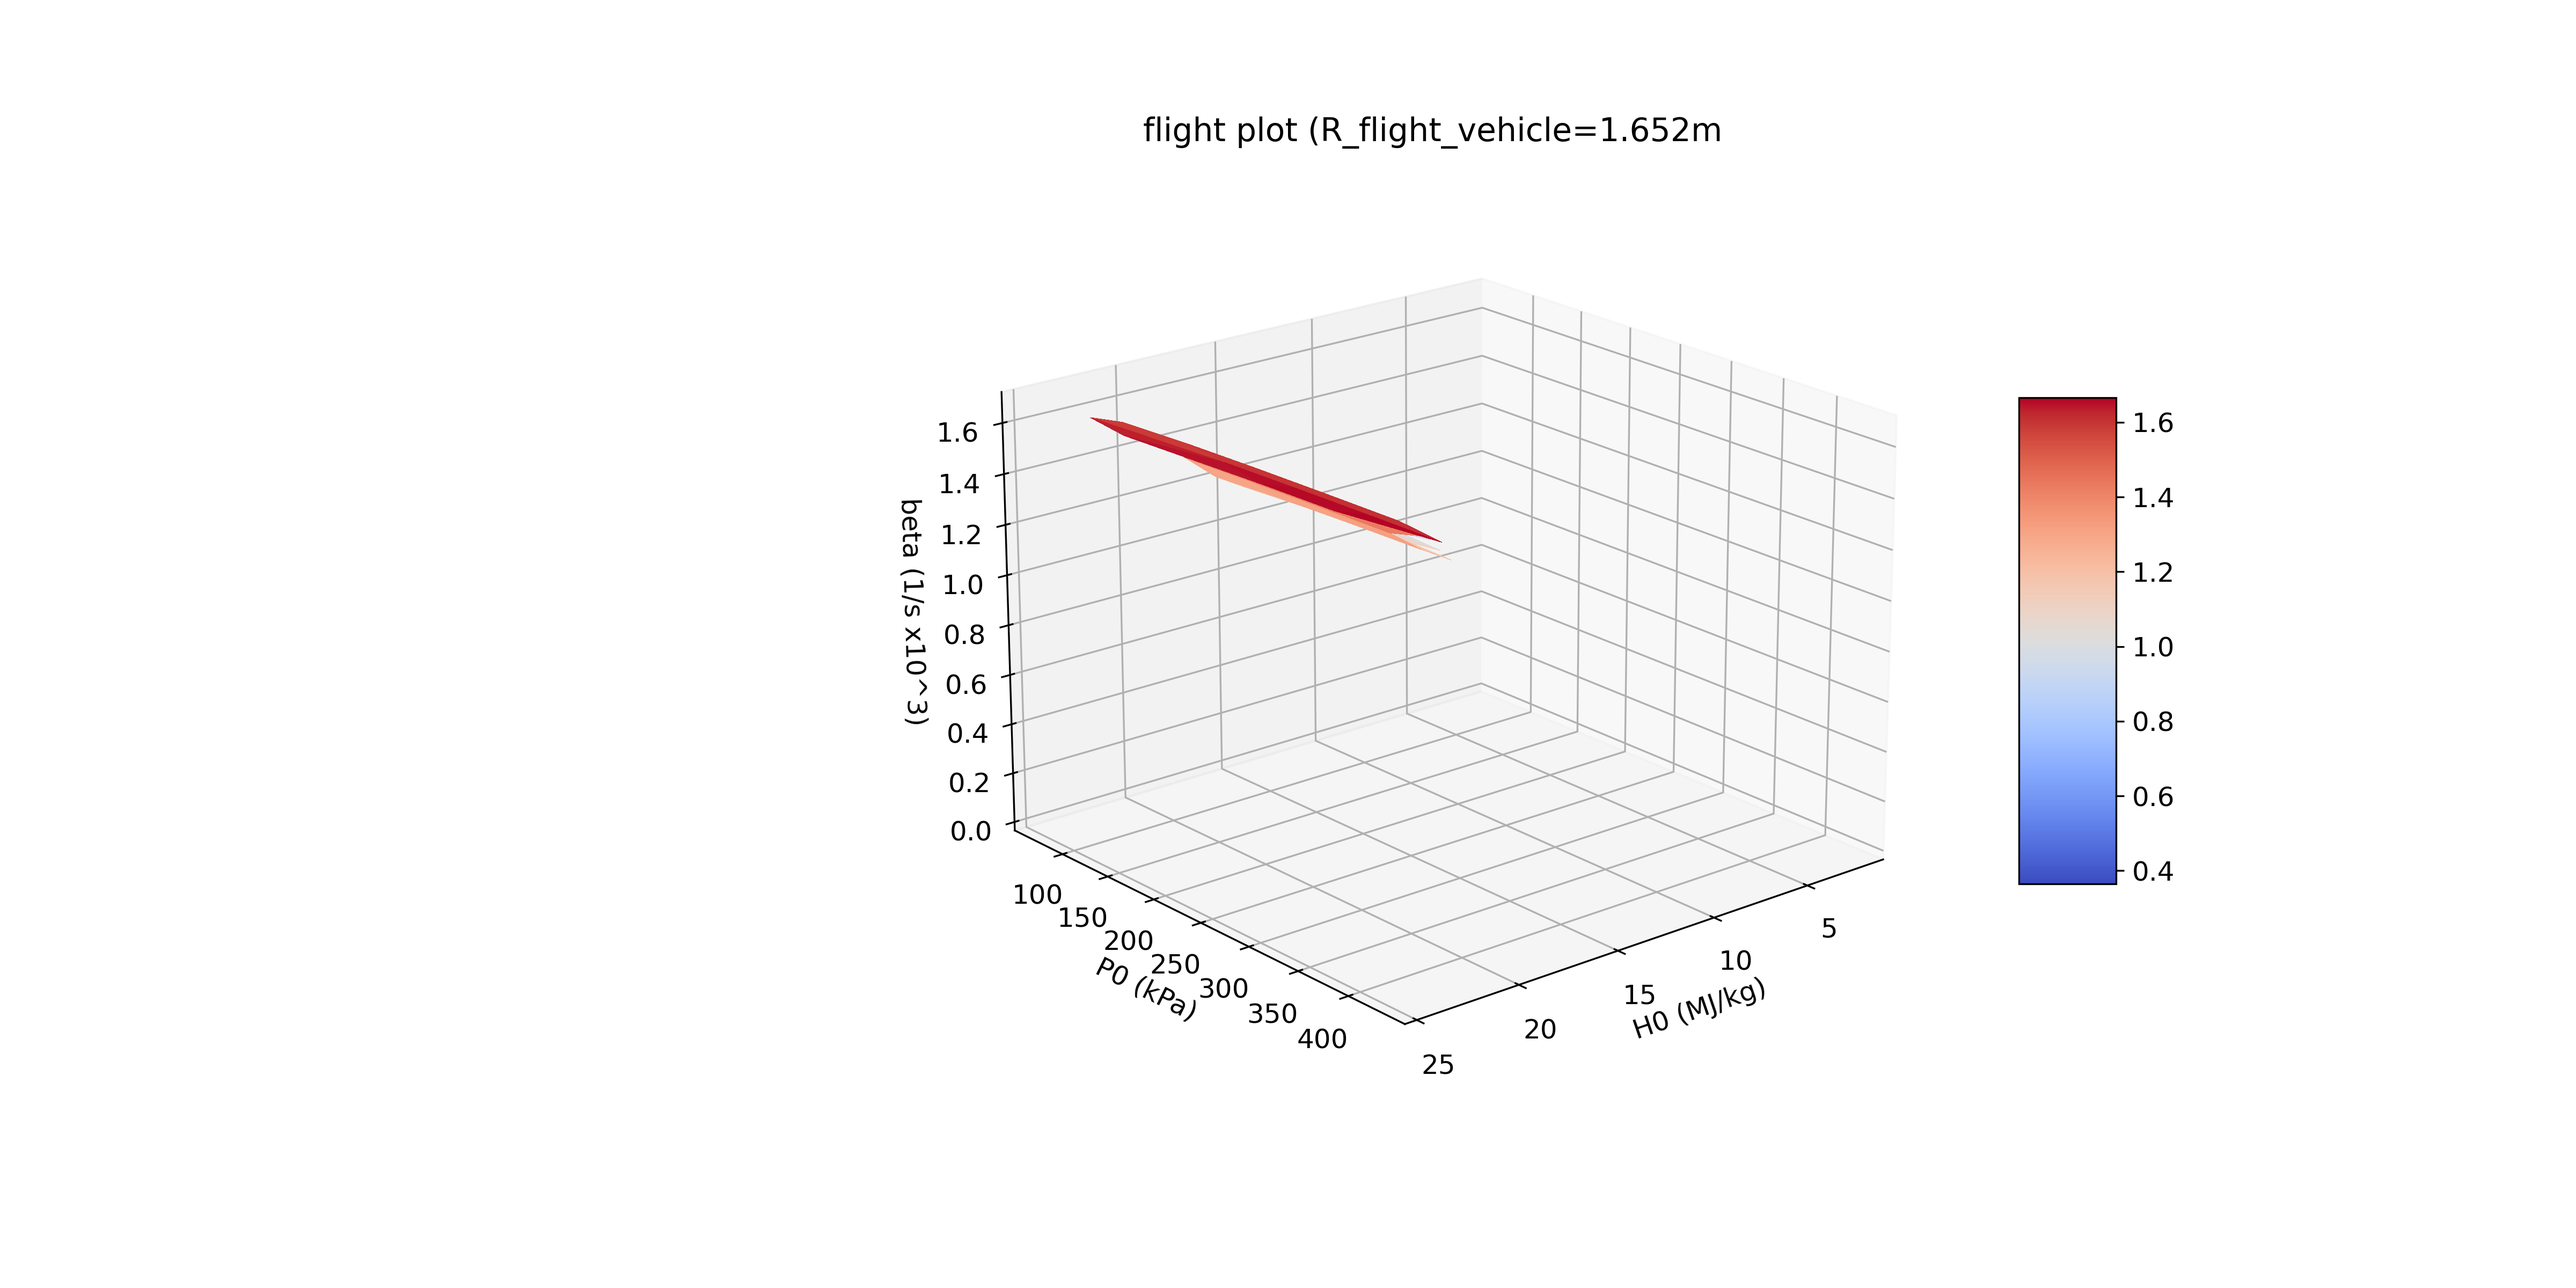
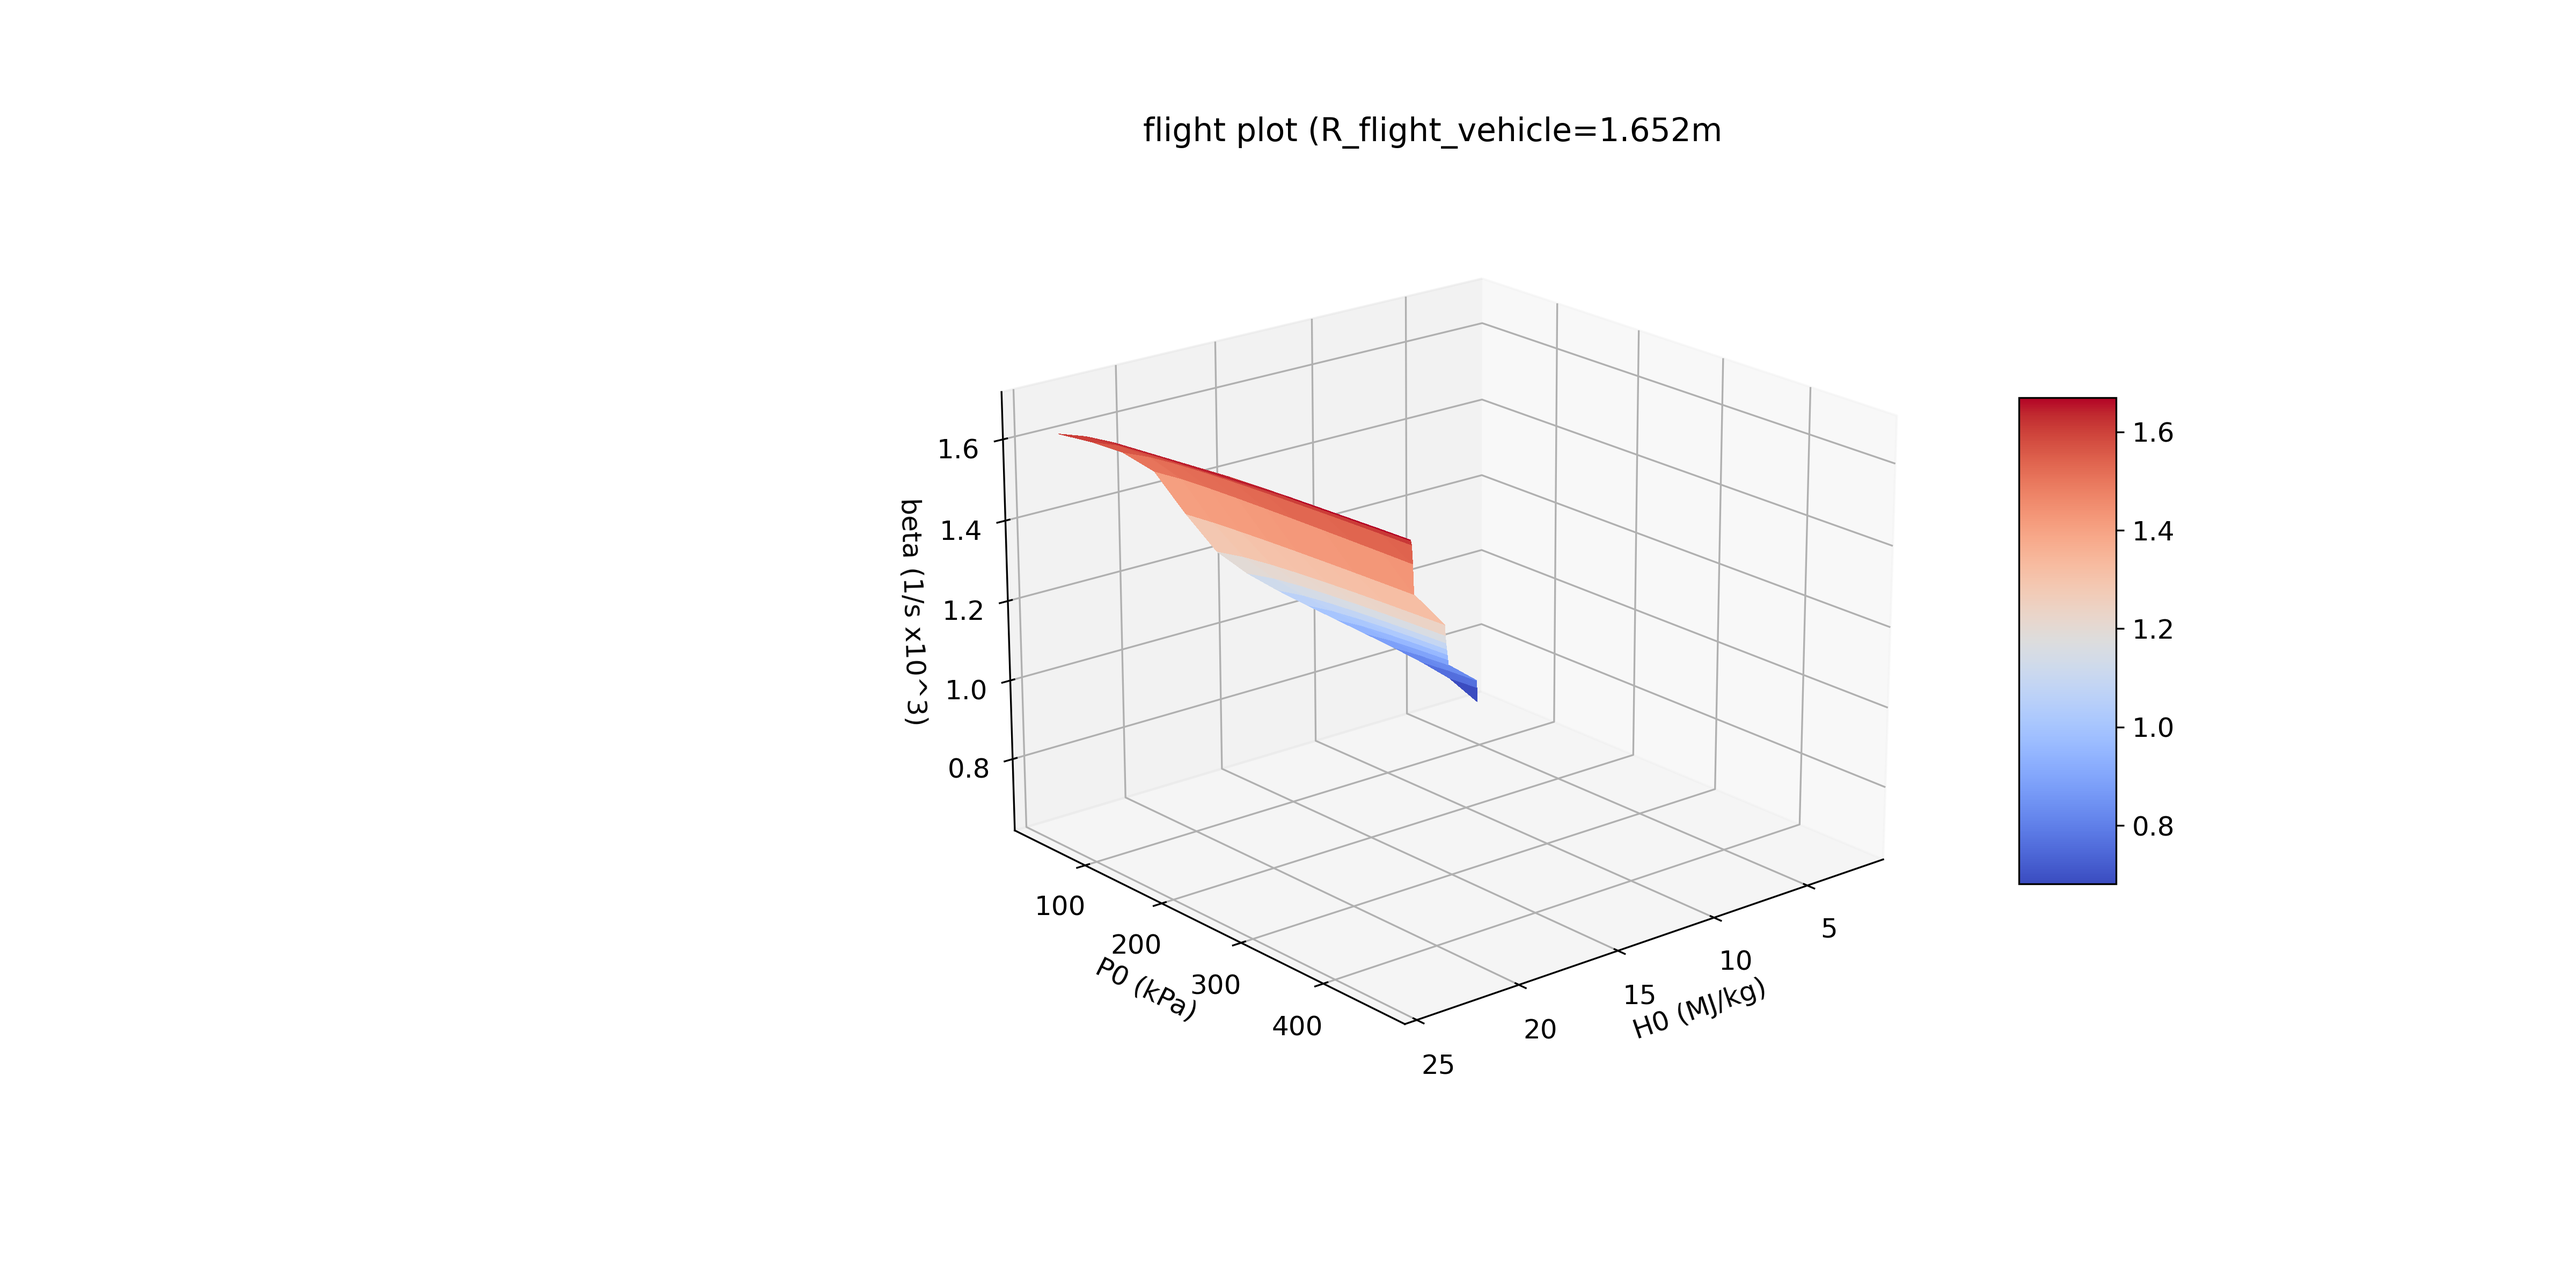
yeet

diff --git a/sub&supersonic_nozzle.py b/sub&supersonic_nozzle.py
@@ -245,6 +245,8 @@ def nice_wireframe(H_add,P0,beta_square):
     print("done")
 
 def beta_curve_PWK(mdot_range,P_arc,P0_range,R_jet,R_model,resolution):
+    number_of_points =resolution**2
+    number_done = 0
     H_add_linspace = np.linspace(0.5*P_arc/mdot_range[0],0.5*P_arc/mdot_range[1],resolution)
     mdot_linspace = 0.5*P_arc/H_add_linspace
     P0_linspace = np.linspace(P0_range[0],P0_range[1],resolution)
@@ -280,6 +282,8 @@ def beta_curve_PWK(mdot_range,P_arc,P0_range,R_jet,R_model,resolution):
 
             except:
                 beta_square[count1][count2]=0
+            number_done = number_done + 1
+            print(str(100*number_done/number_of_points)+"% through flight calcs")
     
     P0, mdot =np.meshgrid(P0_linspace,mdot_linspace)
     H_add = (0.5*P_arc/mdot)
@@ -306,6 +310,8 @@ def beta_curve_PWK(mdot_range,P_arc,P0_range,R_jet,R_model,resolution):
 
 def beta_curve_flight(H0_linspace,P0_linspace,R_flight_vehicle,resolution):
     beta_square_flight = np.zeros((resolution,resolution)    )
+    number_of_points =resolution**2
+    number_done = 0
     for count1, h0 in enumerate(H0_linspace):
         for count2, P0 in enumerate(P0_linspace-1):
             try:
@@ -351,6 +357,8 @@ def beta_curve_flight(H0_linspace,P0_linspace,R_flight_vehicle,resolution):
                     beta_square_flight[count1][count2] = 0
             except RuntimeWarning:
                 beta_square_flight[count1][count2] = 0
+            number_done = number_done + 1
+            print(str(100*number_done/number_of_points)+"% through flight calcs")
     
     P0, H0 =np.meshgrid(P0_linspace,H0_linspace)
 
@@ -380,7 +388,7 @@ def ding():
     winsound.Beep(frequency, duration)
 
 def compare_beta(resolution):
-    beta_square_PWK, P0_grid_PWK, H0_grid_PWK, mdot_linspace, P0_linspace, H_add_linspace = beta_curve_PWK(mdot_range=[0.005,0.05], P_arc = 240*10**3, P0_range=[600,1000*10**3], R_jet = 0.03, R_model = 0.01, resolution=resolution)
+    beta_square_PWK, P0_grid_PWK, H0_grid_PWK, mdot_linspace, P0_linspace, H_add_linspace = beta_curve_PWK(mdot_range=[0.005,0.05], P_arc = 240*10**3, P0_range=[600,500*10**3], R_jet = 0.03, R_model = 0.0254, resolution=resolution)
     beta_square_flight, P0_grid_flight, H0_grid_flight = beta_curve_flight(H_add_linspace,P0_linspace,1.652,resolution)
     
     fig3 = plt.figure("3",figsize=(10,5))
@@ -397,9 +405,16 @@ def compare_beta(resolution):
     # plt.xlim((0,25))
     # plt.ylim((0,400))
     # fig2.colorbar(surf, shrink=0.5, aspect=5)
-    ax.view_init(20,50)
     plt.title("combined")
+    ax.view_init(20,50)
     plt.savefig('test3.png', dpi=300)
+    ax.view_init(0,0)
+    plt.savefig('test4.png', dpi=300)
+    ax.view_init(0,90)
+    plt.savefig('test5.png', dpi=300)
+    ax.view_init(90,0)
+    plt.savefig('test6.png', dpi=300)
+
     
 
 if __name__ == "__main__":
